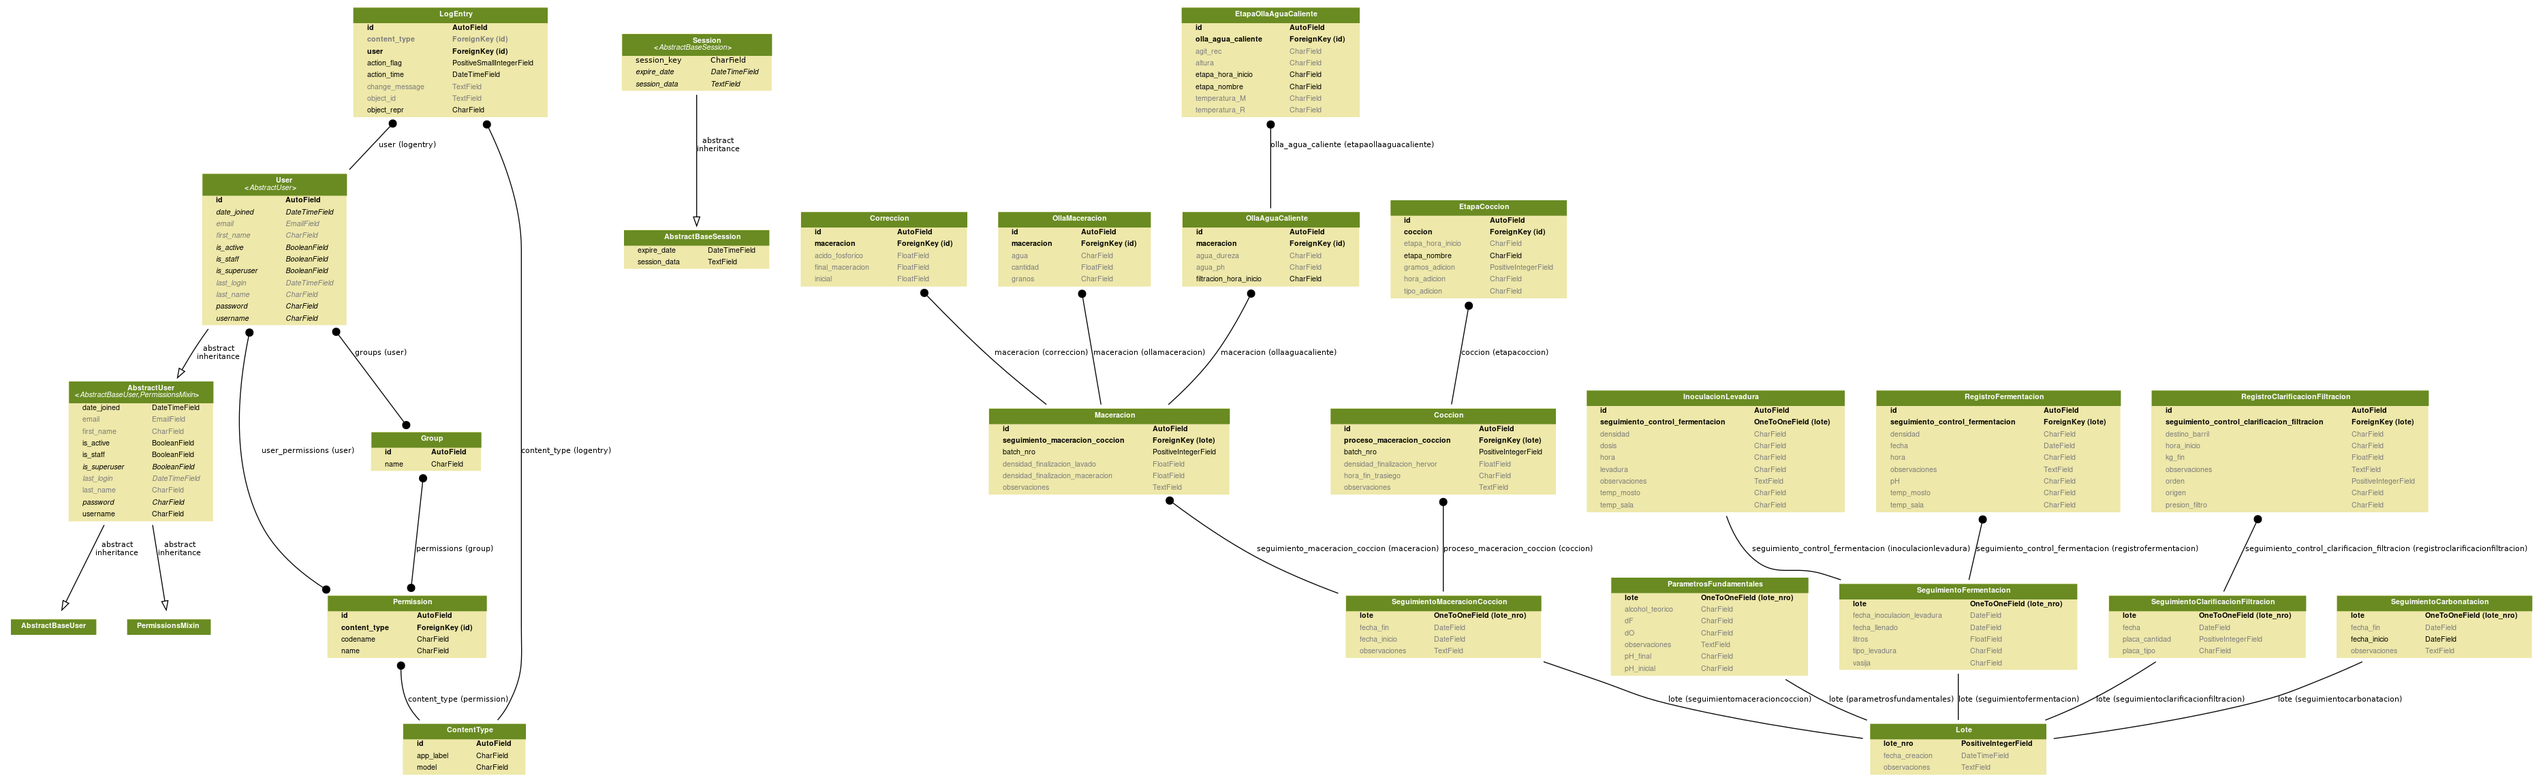
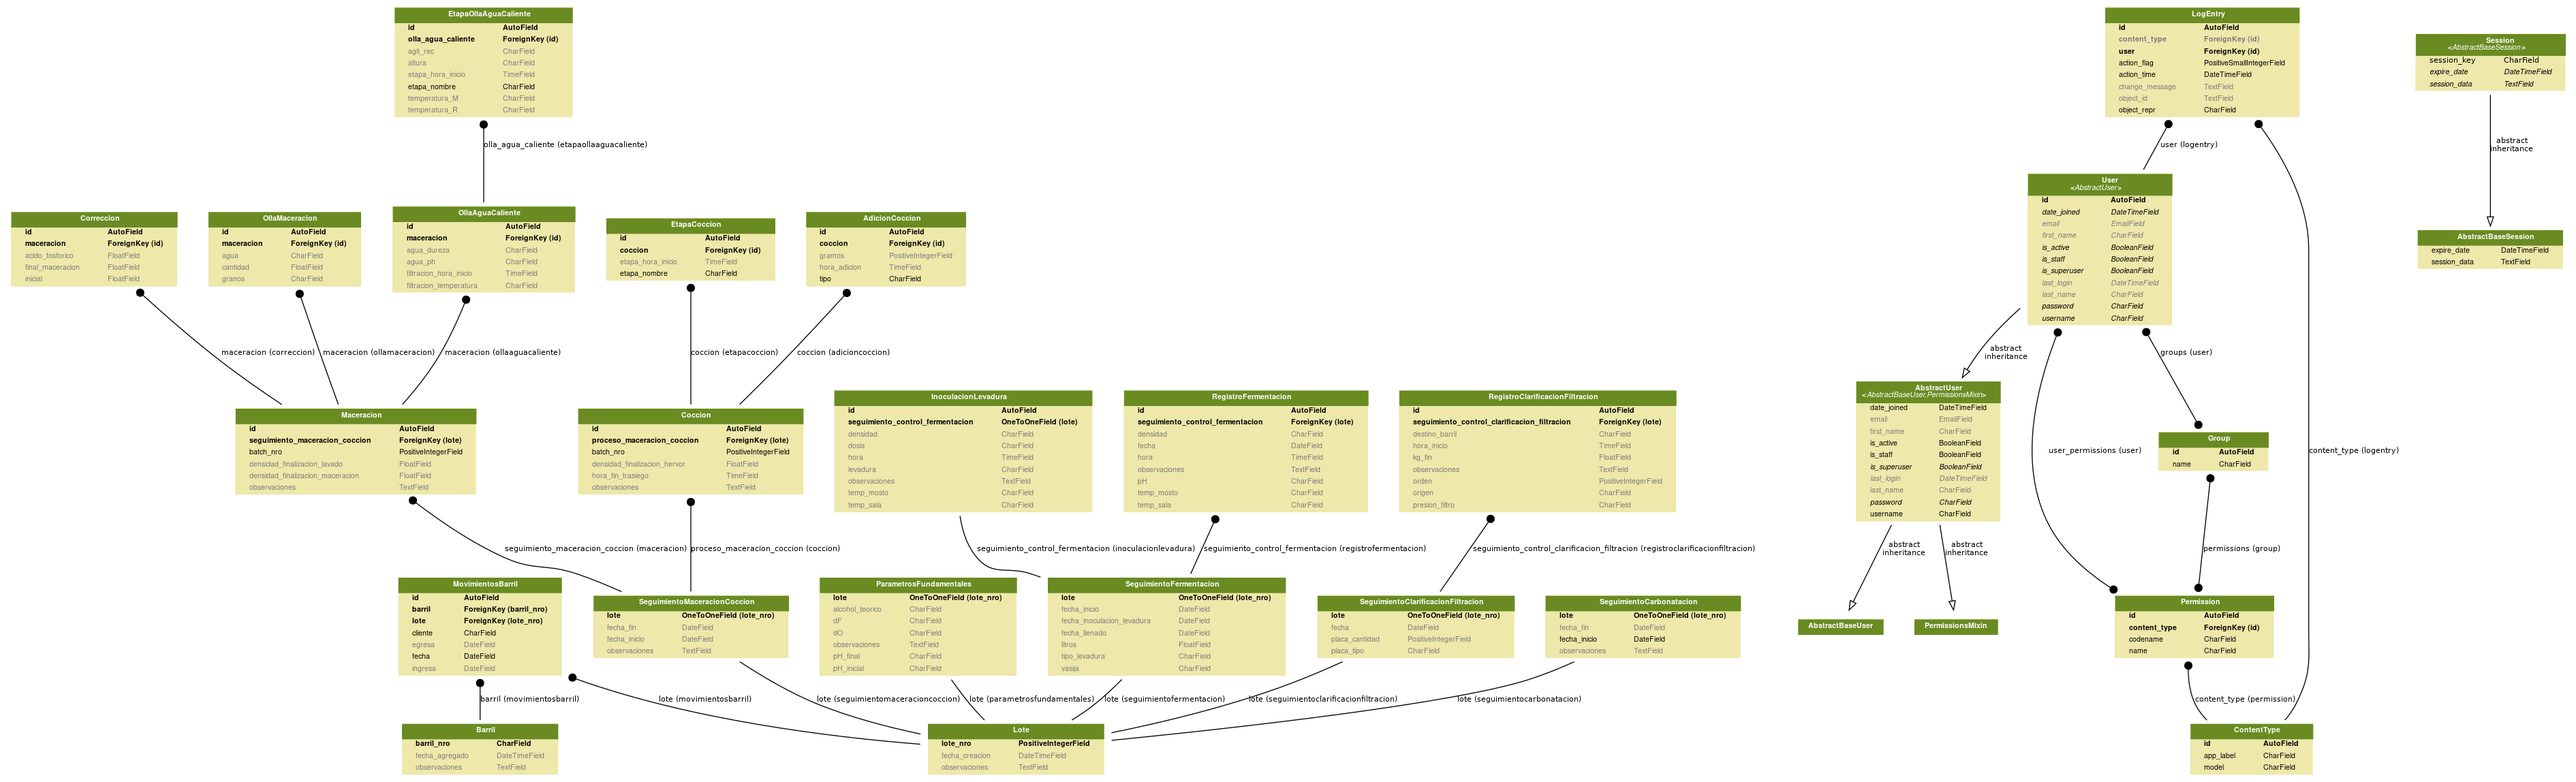
added ingresar barril

diff --git a/static/admin/js/calendar.js b/static/admin/js/calendar.js
@@ -9,27 +9,27 @@ depends on core.js for utility functions like removeChildren or quickElement
     // CalendarNamespace -- Provides a collection of HTML calendar-related helper functions
     var CalendarNamespace = {
         monthsOfYear: [
-            gettext('January'),
-            gettext('February'),
-            gettext('March'),
-            gettext('April'),
-            gettext('May'),
-            gettext('June'),
-            gettext('July'),
-            gettext('August'),
-            gettext('September'),
-            gettext('October'),
-            gettext('November'),
-            gettext('December')
+            gettext('Enero'),
+            gettext('Febrero'),
+            gettext('Marzo'),
+            gettext('Abril'),
+            gettext('Mayo'),
+            gettext('Junio'),
+            gettext('Julio'),
+            gettext('Agosto'),
+            gettext('Septiembre'),
+            gettext('Octubre'),
+            gettext('Noviembre'),
+            gettext('Deciembre')
         ],
         daysOfWeek: [
-            pgettext('one letter Sunday', 'S'),
-            pgettext('one letter Monday', 'M'),
-            pgettext('one letter Tuesday', 'T'),
-            pgettext('one letter Wednesday', 'W'),
-            pgettext('one letter Thursday', 'T'),
-            pgettext('one letter Friday', 'F'),
-            pgettext('one letter Saturday', 'S')
+            pgettext('one letter Domingo', 'D'),
+            pgettext('one letter Lunes', 'L'),
+            pgettext('one letter Martes', 'M'),
+            pgettext('one letter Miercoles', 'I'),
+            pgettext('one letter Jueves', 'J'),
+            pgettext('one letter Viernes', 'V'),
+            pgettext('one letter Sabado', 'S')
         ],
         firstDayOfWeek: parseInt(get_format('FIRST_DAY_OF_WEEK')),
         isLeapYear: function(year) {

diff --git a/cooking/templates/movimientoslist.html b/cooking/templates/movimientoslist.html
@@ -43,6 +43,7 @@
               <th>Cliente</th>
               <th>Ingresa:</th>
               <th>Egresa:</th>
+              <th>Estado:</th>
               <th></th>
             </tr>
           </thead>
@@ -56,7 +57,16 @@
                 <td><a href="{% url 'lote_seguimientos_list' movimiento.lote.lote_nro %}">{{ movimiento.lote }}</td>
                 <td>{{ movimiento.cliente }}</td>
                 <td>{{ movimiento.ingresa }}</td>
+                {% if movimiento.egresa is None %}
+                    <td>Sin fecha de egreso.</td>
+                {% else %}
                 <td>{{ movimiento.egresa }}</td>
+                {% endif %}
+                {% if movimiento.estado_devolucion is None %}
+                    <td>Sin estado devolución.</td>
+                {% else %}
+                <td>{{ movimiento.estado_devolucion }}</td>
+                {% endif %}
                 <td><a href="{% url 'movimientosupdate' movimiento.id %}">Actualizar</td>
 
             </tr>

diff --git a/cooking/views.py b/cooking/views.py
@@ -3,13 +3,14 @@ from .models import *
 from django.views.generic import ListView, DetailView, CreateView, UpdateView
 from django.contrib.auth.mixins import LoginRequiredMixin
 from django.contrib.auth.decorators import login_required
-from django.http import HttpResponseRedirect
+from django.http import HttpResponseRedirect, Http404
 from django.urls import reverse, reverse_lazy
 from .forms import *
 from .initializers import (
     init_planilla_MaceracionCoccion,
     init_planilla_Fermentacion)
 from django.contrib import messages
+from datetime import date
 
 
 # Create your views here.
@@ -86,6 +87,36 @@ class UpdateMovimientosBarrilView(LoginRequiredMixin, UpdateView):
     model = MovimientosBarril
     form_class = MovimientosBarrilModelForm
     template_name = 'movimientos_form.html'
+
+    def get_success_url(self):
+        return reverse('movimientoslist')
+
+
+class IngresarMovimientosBarrilView(LoginRequiredMixin, UpdateView):
+    """
+    se llama a esta clase cuando un se escanea un código QR, entonces se
+    verifica si el barril tiene un movimiento para el que no haya fecha de
+    ingreso, se llena automaticamente y se muestra el movimiento para
+    actualizar el estado de devolución
+    """
+
+    model = MovimientosBarril
+    form_class = MovimientosBarrilModelForm
+    template_name = 'movimientos_form.html'
+
+    def get_initial(self):
+        initial = super(IngresarMovimientosBarrilView, self).get_initial()
+        initial['egresa'] = date.today
+        return initial
+
+    def get_object(self, **kwargs):
+        # return get_object_or_404(MovimientosBarril, barril=Barril.objects.get(barril_nro=self.kwargs.get("slug")))
+        mov = MovimientosBarril.objects.filter(
+            barril__barril_nro__icontains=self.kwargs['slug']).first()
+        if mov is None:
+            raise Http404
+        else:
+            return mov
 
     def get_success_url(self):
         return reverse('movimientoslist')

diff --git a/cooking/urls.py b/cooking/urls.py
@@ -5,7 +5,8 @@ from . import views
 urlpatterns = [
     # Create object URLs
     url(r'^lote/create/$', views.LoteCreate.as_view(), name='lote_create'),
-    url(r'^barril/create/$', views.BarrilCreate.as_view(), name='barril_create'),
+    url(r'^barril/create/$', views.BarrilCreate.as_view(),
+        name='barril_create'),
     url(r'^movimiento/create/$', views.MovimientosBarrilCreate.as_view(),
         name='movimiento_create'),
     url(r'^$', views.LoteView.as_view(), name='lotelist'),
@@ -13,14 +14,20 @@ urlpatterns = [
     url(r'^barril/$', views.BarrilView.as_view(), name='barrillist'),
     url(r'^movimiento/$', views.MovimientosBarrilView.as_view(),
         name='movimientoslist'),
-    url(r'^movimiento/(?P<lote>\d+)', views.LoteMovimientosBarrilView.as_view(),
+    url(r'^movimiento/(?P<lote>\d+)',
+        views.LoteMovimientosBarrilView.as_view(),
         name='movimientoslistlote'),
-    url(r'^movimiento/(?P<barril>[-\w]+)/$', views.BarrilMovimientosBarrilView.as_view(),
+    url(r'^movimiento/(?P<barril>[-\w]+)/$',
+        views.BarrilMovimientosBarrilView.as_view(),
         name='movimientoslistbarril'),
     url(r'^lote/(?P<pk>\d+)$', views.LoteSeguimientosView.as_view(),
         name='lote_seguimientos_list'),
-    url(r'^movimiento/update/(?P<pk>\d+)/$', views.UpdateMovimientosBarrilView.as_view(),
+    url(r'^movimiento/update/(?P<pk>\d+)/$',
+        views.UpdateMovimientosBarrilView.as_view(),
         name='movimientosupdate'),
+    url(r'^movimiento/ingresarbarril/(?P<slug>[-\w]+)/$',
+        views.IngresarMovimientosBarrilView.as_view(),
+        name='movimientosingreso'),
 ]
 
 urlpatterns += [

diff --git a/cooking/models.py b/cooking/models.py
@@ -3,7 +3,6 @@ from django.db import models
 from .utils import constants
 from datetime import time
 
-
 # Create your models here.
 
 
@@ -35,6 +34,7 @@ class Barril(models.Model):
     observaciones = models.TextField(max_length=100,
                                      null=True, blank=True)
     fecha_agregado = models.DateTimeField(auto_now_add=True)
+
     # listamos los lotes con el mas reciente primero
 
     class Meta:
@@ -57,6 +57,9 @@ class MovimientosBarril(models.Model):
                                help_text="Cliente, obligatorio")
     ingresa = models.DateField(null=True, blank=True)
     egresa = models.DateField(null=True, blank=True)
+    estado_devolucion = models.CharField(max_length=20,
+                                         choices=constants.DEVOLUCION,
+                                         null=True, blank=True)
 
     class Meta:
         ordering = ["-fecha"]
@@ -314,6 +317,11 @@ class SeguimientoClarificacionFiltracion(models.Model):
 
 
 class RegistroClarificacionFiltracion(models.Model):
+
+    class Meta:
+        verbose_name = "Registro Clarificación y Filtración"
+        verbose_name_plural = "Registros de Clarificación y Filtración"
+
     seguimiento_control_clarificacion_filtracion = models.ForeignKey(
         'SeguimientoClarificacionFiltracion', on_delete=models.CASCADE, null=True)
     orden = models.PositiveIntegerField(null=True, blank=True)

diff --git a/cooking/forms.py b/cooking/forms.py
@@ -114,7 +114,8 @@ class MovimientosBarrilModelForm(forms.ModelForm):
 
     class Meta:
         model = MovimientosBarril
-        fields = ['fecha', 'barril', 'lote', 'cliente', 'ingresa', 'egresa']
+        fields = ['fecha', 'barril', 'lote', 'cliente',
+                  'ingresa', 'egresa', 'estado_devolucion']
 
     def __init__(self, *args, **kwargs):
         super(MovimientosBarrilModelForm, self).__init__(*args, **kwargs)

diff --git a/cooking/utils/constants.py b/cooking/utils/constants.py
@@ -4,3 +4,9 @@ from datetime import time
 lista_horarios = [time(x, y) for x in range(0, 24) for y in range(0, 60, 5)]
 
 HORA = tuple([(x, x.isoformat()) for x in lista_horarios])
+
+DEVOLUCION = (
+    ("Lleno", "Lleno"),
+    ("Mitad", "Mitad"),
+    ("Vacio", "Vacio"),
+)
